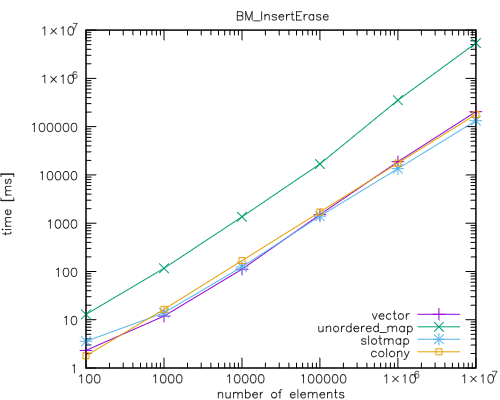
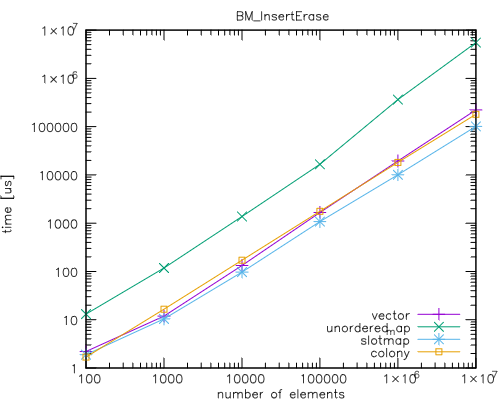
Update README.md and some benchmark results.

diff --git a/README.md b/README.md
@@ -3,19 +3,27 @@
 [![Build Status](https://github.com/nnen/slotmap/actions/workflows/cmake-multi-platform.yml/badge.svg)](https://github.com/nnen/slotmap/actions/)
 ![MIT](https://img.shields.io/badge/license-MIT-blue.svg)
 
-This is a C++ slotmap implementation. For a detailed explanation of what a
-slotmap is, see:
+This is a C++ slotmap implementation.
+
+ * Associative container. Keys are unsigned integers and are automatically
+   assigned to elements on insertion.
+ * Insertions and deletions of other elements do not invalidate the keys.
+ * Pointers and references to elements are stable. The elements are never moved
+   in memory.
+ * Random access has *O(1)* time complexity in the worst case.
+ * Insertions and deletions have *O(1)* time complexity in the worst case.
+ * Fast iteration over valid elements (see benchmarks).
+ * Supports both dynamically and statically allocated storage.
+ * Supports keys of any unsigned integer type of at least 16 bits.
+
+For more information about slotmap as a concept, see:
 
  * [Allan Deutsch (2017). C++ Now 2017: "The Slot Map Data Structure".](https://youtu.be/SHaAR7XPtNU?si=6clk4jhFL_sk50lY)
  * [Sean Middleditch (2013). Data Structures for Game Developers: The Slot Map.](https://web.archive.org/web/20180121142549/http://seanmiddleditch.com/data-structures-for-game-developers-the-slot-map/)
 
 This implementation is work in progress. Known features missing are:
 
- * Copy assignment operator.
  * STL-style iterators.
- * Currently using [`std::bitset`](https://en.cppreference.com/w/cpp/utility/bitset) 
-   for alive bits, which doesn't support efficient iteration over set bits. Custom 
-   implementation which would use 'leading zeros' or 'trailing zeros' instructions is planned.
 
 ## Source
 
@@ -70,29 +78,77 @@ to decode the slotmap for each step of the iteration.
 
 ### BM_InsertErase
 
-| Elements |    vector |  unordered\_map |   slotmap |    colony |
-| -------: | --------: | --------------: | --------: | --------: |
-|      100 |      2313 |           12912 |      3577 |      1793 |
-|     1000 |     11883 |          116297 |     13938 |     16482 |
-|    10000 |    111106 |         1354761 |    124286 |    167610 |
-|   100000 |   1508250 |        16829002 |   1397777 |   1702604 |
-|  1000000 |  18741405 |       352602200 |  13472431 |  17606432 |
-| 10000000 | 203556933 |      5373849100 | 132865175 | 179067467 |
+#### Pseudocode
+
+    Insert N elements into the container
+    Clear the container
+    Insert N elements into the container
+    For each inserted key:
+       Erase the key from the slotmap
+
+#### Results
+
+The times are in nanoseconds.
+
+| Elements |    vector | unordered\_map |   slotmap |    colony |
+| -------: | --------: | -------------: | --------: | --------: |
+|      100 |      2202 |          13075 |      1886 |      1678 |
+|     1000 |     11898 |         117732 |     10422 |     16504 |
+|    10000 |    132910 |        1378636 |     96990 |    171081 |
+|   100000 |   1663162 |       16605540 |   1077619 |   1762114 |
+|  1000000 |  19428353 |      363784350 |  10058595 |  18165161 |
+| 10000000 | 222740967 |     5514846000 | 101167150 | 180534925 |
+
+Note the graph below uses logarithmic scale for both x and y axis. In this case
+that means that `unordered_map` is around an order of magniture worse than
+everything else.
 
 ![Graph comparing the speed of insertion and erasure for different implementation of slotmap](slotmap-benchmark/results/bm_inserterase_cpu.png)
 
 ### BM_Iteration
 
-| % of bits set |  vector |  unordered\_map | slotmap/std::bitset | slotmap | slotmap/foreach |  colony |
-| ------------: | ------: | --------------: | ------------------: | ------: | --------------: | ------: |
-| 0             |   0.236 |           0.779 |               0.237 |   0.235 |           0.235 |   0.236 |
-| 25            | 4301083 |        13949860 |             4386942 | 2838624 |         1819588 | 1371352 |
-| 50            | 5299380 |        24772943 |             5483084 | 4181928 |         2637951 | 2328349 |
-| 75            | 4367373 |        34134640 |             4925899 | 5232540 |         3044984 | 2742511 |
-| 100           | 3178315 |        43031847 |             4207817 | 6577767 |         3156624 | 2915600 |
+To prepare the test data, this benchmark fills a container with 1000000 elements
+and then randomly selects a set percentage of them and removes them. The intent
+is to create "holes" in what is essentially a sparse array.
+
+The measured part of the benchmark then simply iterates over all elements in the
+slotmap and adds them up using a checksum variable.
+
+The compared collections are:
+
+* `vector` - a simple `std::vector` with boolean alive flags and a free list
+* `unordered_map` - `std::unordered_map` with a counter to automatically assign IDs
+* `slotmap/std::bitset` - `SlotMap`, but using `std::bitset` instead of the default `FixedBitSet`
+* `slotmap` - default `SlotMap` using dynamically allocated chunked storage
+* `slotmap/foreach` - same as `slotmap`, but using the `ForEach()` function
+* `colony` - `plf::colony` (https://github.com/mattreecebentley/plf_colony)
+
+#### Results
+
+The times are in microseconds.
+
+| % of slots used |  vector |  unordered\_map | slotmap/std::bitset | slotmap | slotmap/foreach |  colony |
+| --------------: | ------: | --------------: | ------------------: | ------: | --------------: | ------: |
+| 0               |    3147 |           0.000 |               0.000 |   0.000 |           0.000 |  0.000  |
+| 25              |    4256 |           12266 |                4324 |    3170 |            1661 |   1455  |
+| 50              |    5328 |           20436 |                5480 |    4367 |            2654 |   2429  |
+| 75              |    4231 |           26320 |                5035 |    5453 |            3167 |   2818  |
+| 100             |    3271 |           31041 |                4256 |    6630 |            3249 |   3090  |
 
 ![Graph comparing the speed of iteration for different implementation of slotmap](slotmap-benchmark/results/bm_iteration.png)
 ![Graph comparing the speed of iteration for different implementation of slotmap without std::unordered_map](slotmap-benchmark/results/bm_iteration_no_map.png)
+
+### BM_Clear
+
+The times are in microseconds.
+
+| % of slots used |  vector |  unordered\_map | slotmap |   fixed_slotmap |  colony |
+| --------------: | ------: | --------------: | ------: | --------------: | ------: |
+| 0               |    1.12 |           0.170 |   0.180 |            5.08 |   0.240 |
+| 25              |    1.06 |            9048 |   0.430 |            5.12 |   0.500 |
+| 50              |    1.37 |           19369 |   0.560 |            4.11 |   0.660 |
+| 75              |    1.22 |           32524 |   0.530 |            3.54 |   0.830 |
+| 100             |    1.48 |           49599 |   0.670 |            3.07 |   0.910 |
 
 ## Tests
 
